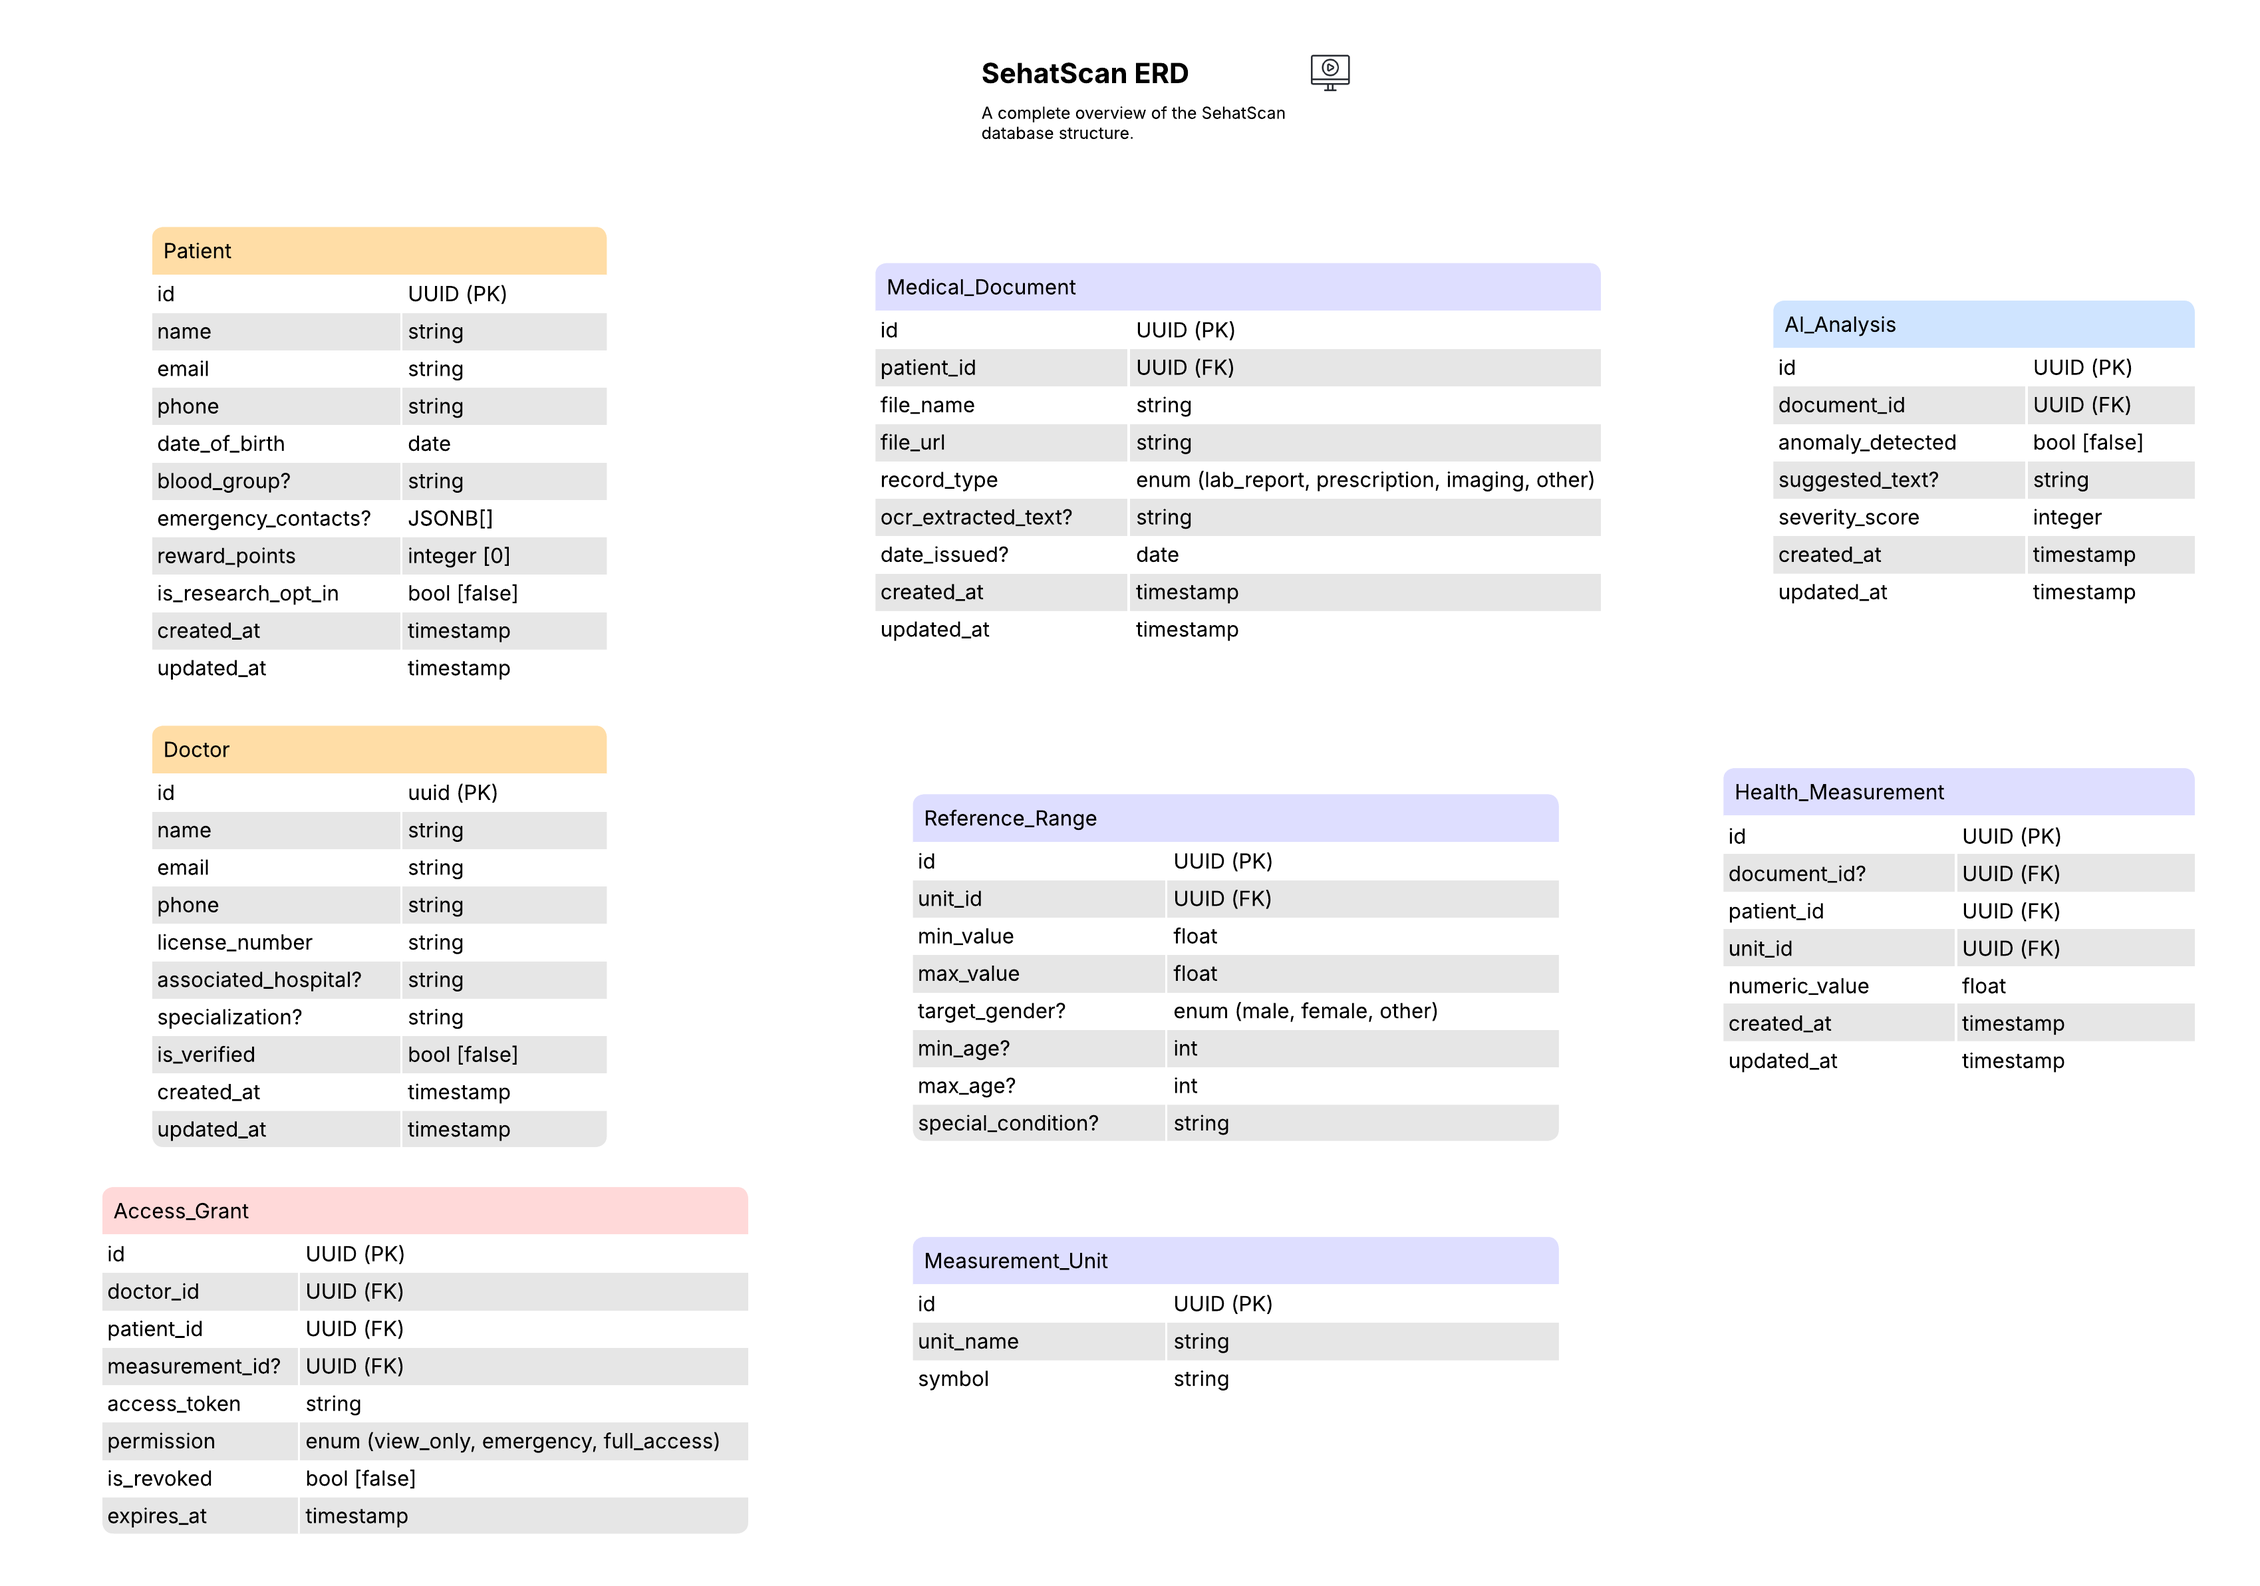
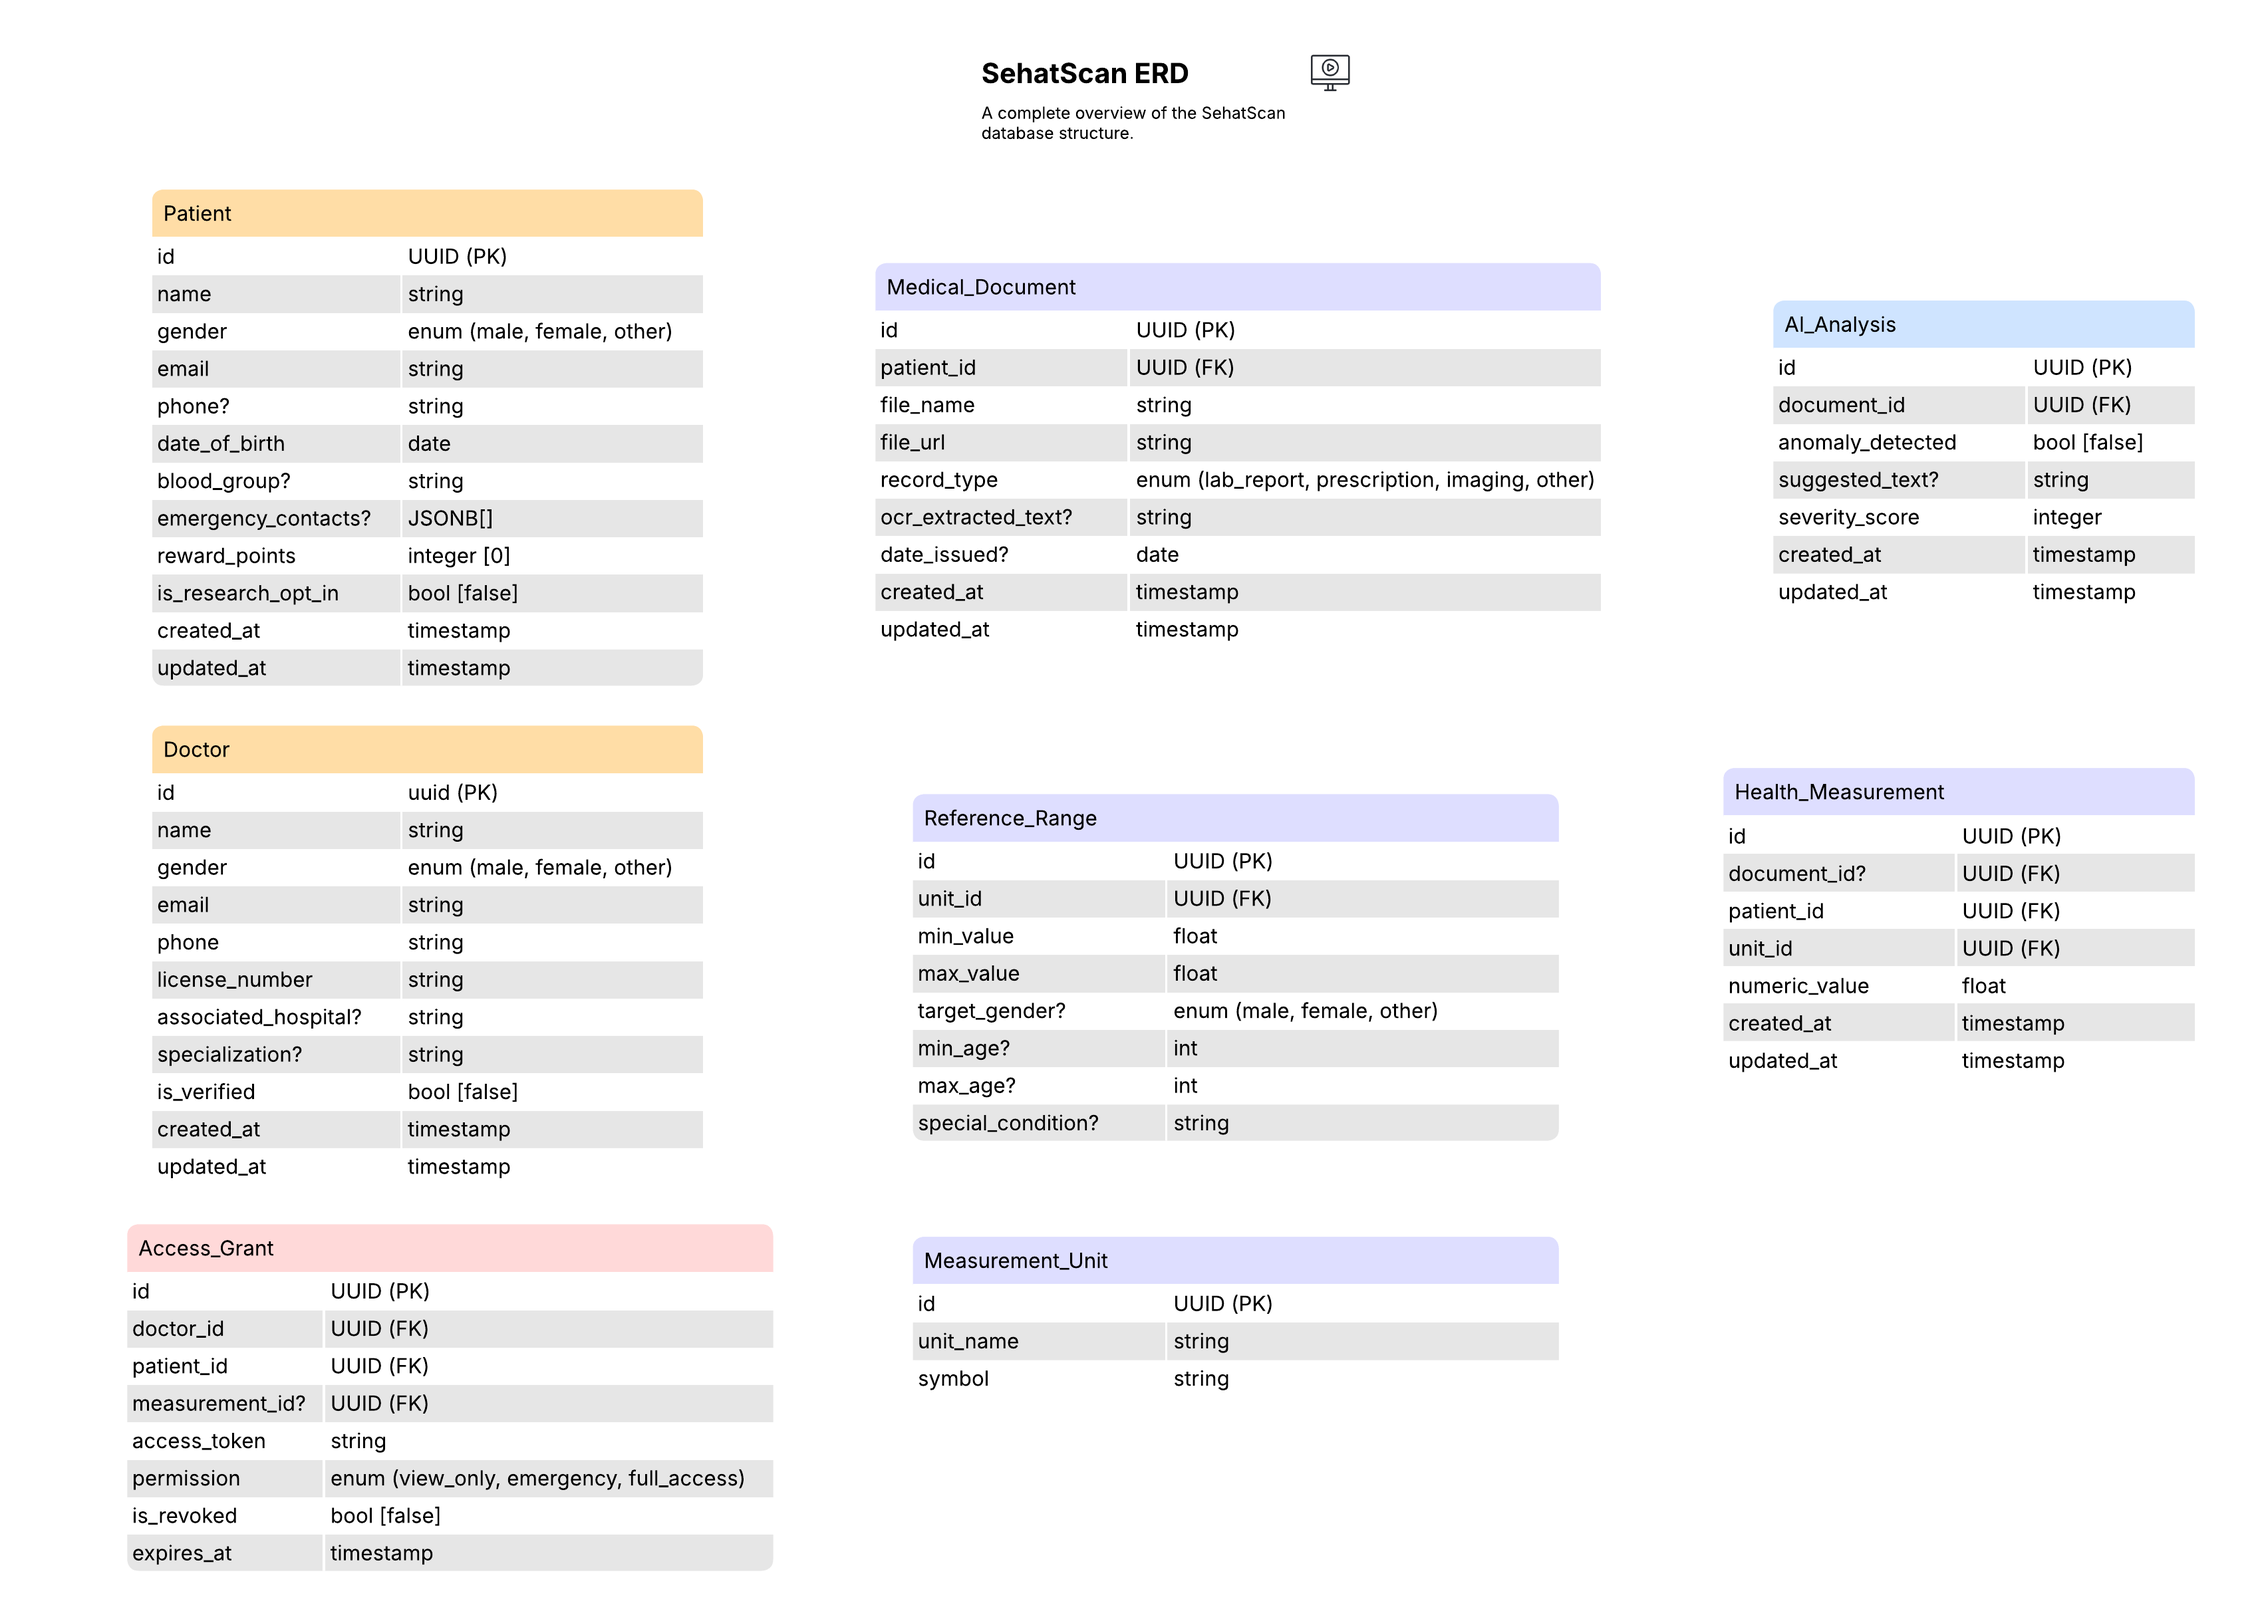
Adding gender colummns to patient and doctor tables

diff --git a/Backend/src/entities/doctor.entity.ts b/Backend/src/entities/doctor.entity.ts
@@ -11,6 +11,9 @@ export class Doctor {
     @Column()
     email: string;
 
+    @Column({ enum: ['male', 'female', 'other'], default: 'male' })
+    gender: string;
+
     @Column()
     phone: string;
 
@@ -25,7 +28,7 @@ export class Doctor {
 
     @Column({ default: false })
     is_verified: boolean;
-    
+
     @CreateDateColumn()
     created_at: Date;
 

diff --git a/Backend/src/entities/patient.entity.ts b/Backend/src/entities/patient.entity.ts
@@ -6,10 +6,13 @@ export class Patient {
     id: string;
 
     @Column()
-    name: string;    
+    name: string;
 
     @Column()
     email: string;
+
+    @Column({ enum: ['male', 'female', 'other'], default: 'male' })
+    gender: string;
 
     @Column({ nullable: true, default: '000-000-0000' })
     phone: string;
